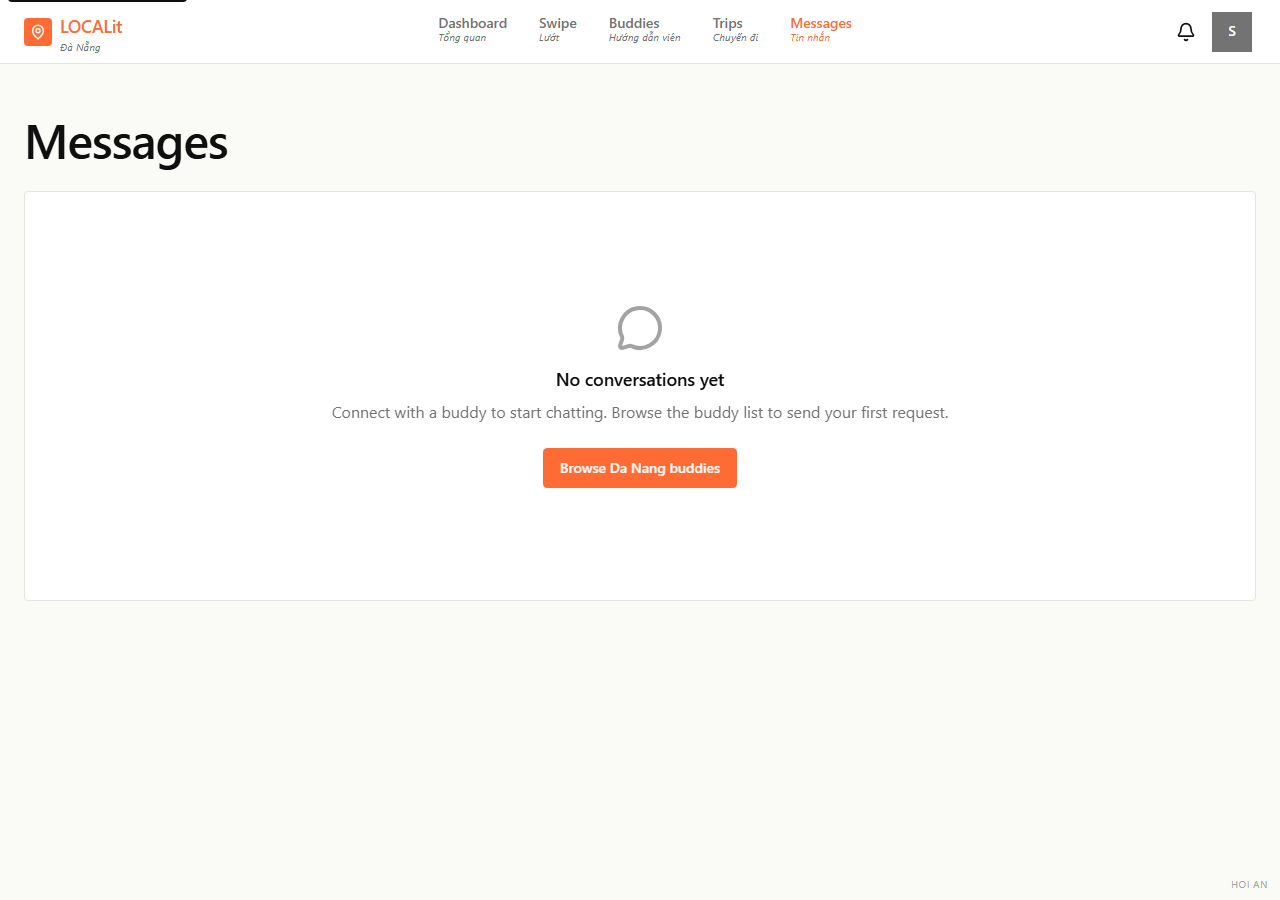
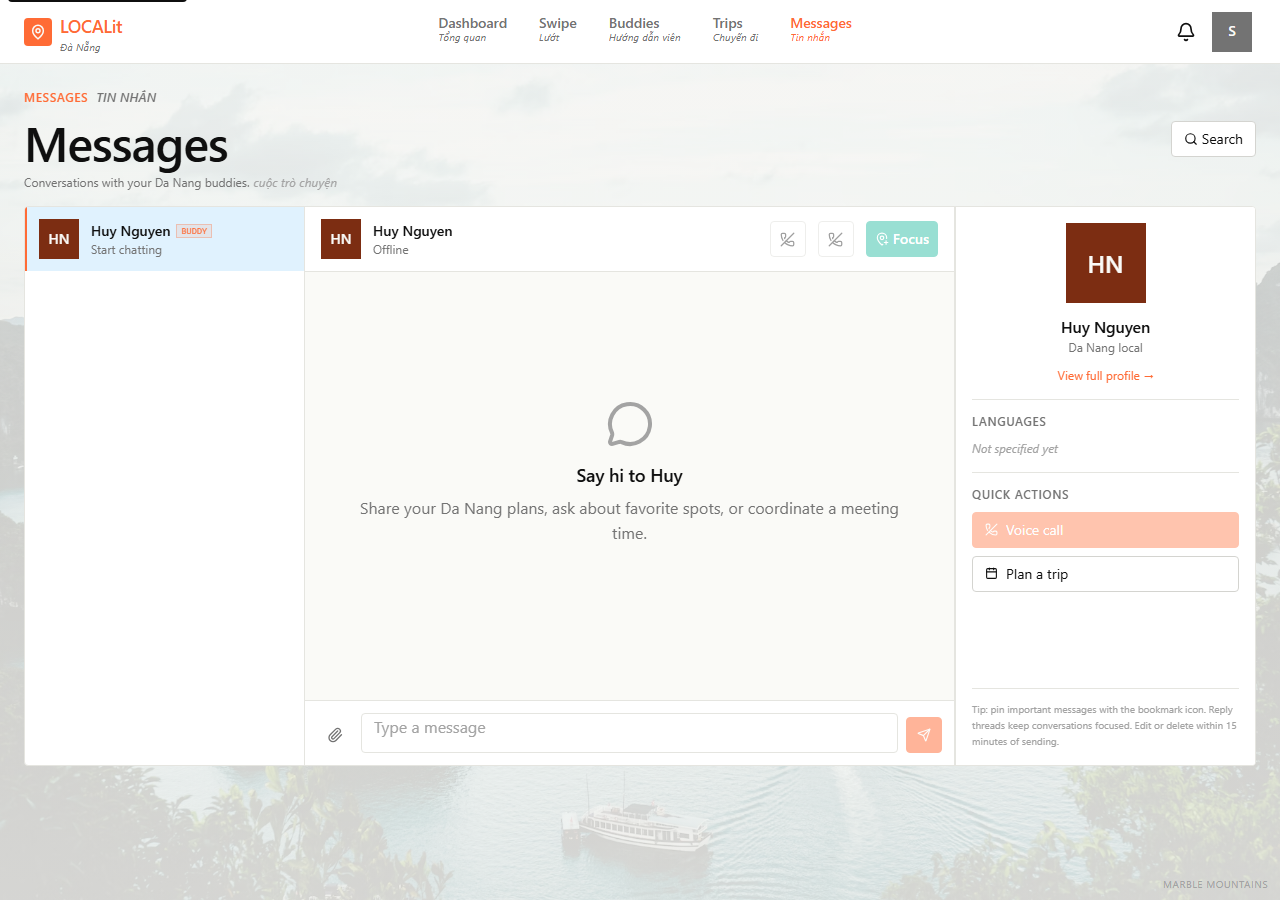
fix(minichat): use new safe_profiles!fk embed for same-role conversations

diff --git a/components/chat/MiniChatWindow.tsx b/components/chat/MiniChatWindow.tsx
@@ -108,16 +108,23 @@ export default function MiniChatWindow() {
   const loadConversations = useCallback(async () => {
     if (!authed || !myUserId) return
     const supabase = createClient()
+    // 2026-10-09: FKs on conversations point to profiles, not the
+    // role-tables. Join safe_profiles via the FK so the embed works
+    // for same-role pairs (tourist↔tourist, buddy↔buddy) too.
+    const selectCols =
+      'id, tourist_id, buddy_id, last_message_preview, last_message_at, updated_at, ' +
+      'tourist_profile:safe_profiles!conversations_tourist_id_fkey(full_name, avatar_url, is_online, id, role), ' +
+      'buddy_profile:safe_profiles!conversations_buddy_id_fkey(full_name, avatar_url, is_online, id, role)'
     const [{ data: touristConvs }, { data: buddyConvs }] = await Promise.all([
       supabase
         .from('conversations')
-        .select('id, tourist_id, buddy_id, last_message_preview, last_message_at, updated_at, tourist:tourists(profile:safe_profiles(full_name, avatar_url, id)), buddy:buddies(profile:safe_profiles(full_name, avatar_url, id))')
+        .select(selectCols)
         .eq('tourist_id', myUserId)
         .order('updated_at', { ascending: false })
         .limit(8),
       supabase
         .from('conversations')
-        .select('id, tourist_id, buddy_id, last_message_preview, last_message_at, updated_at, tourist:tourists(profile:safe_profiles(full_name, avatar_url, id)), buddy:buddies(profile:safe_profiles(full_name, avatar_url, id))')
+        .select(selectCols)
         .eq('buddy_id', myUserId)
         .order('updated_at', { ascending: false })
         .limit(8),
@@ -139,7 +146,11 @@ export default function MiniChatWindow() {
       unreadByConv[m.conversation_id] = (unreadByConv[m.conversation_id] ?? 0) + 1
     }
     for (const row of convRows as any[]) {
-      const other = row.tourist?.profile?.id === myUserId ? row.buddy?.profile : row.tourist?.profile
+      // 2026-10-09: embed is now tourist_profile / buddy_profile
+      // (both safe_profiles rows joined via the conversations FK).
+      // Whichever side is NOT the current user is the partner.
+      const other =
+        row.tourist_profile?.id === myUserId ? row.buddy_profile : row.tourist_profile
       if (!other) continue
       summaries.push({
         id: row.id,
